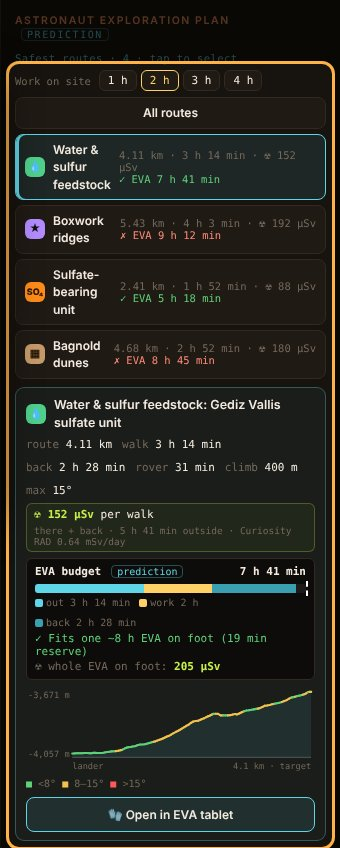
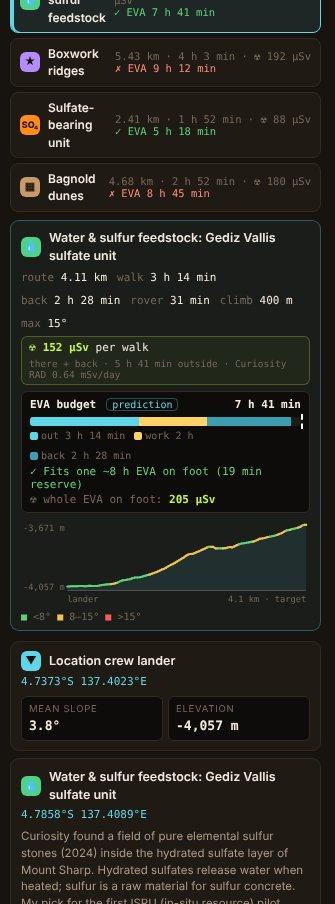
Remove EVA tablet mode
Removes the EVA tablet header button, the Open in EVA tablet button, the
tablet view and its styles, and its tour step (the tour now has 14 steps).
README and docs are updated and the route-card screenshot is retaken. The
radiation dose and EVA budget on every route are unchanged.

diff --git a/index.html b/index.html
@@ -23,25 +23,6 @@ nav button.on{background:var(--mars);border-color:var(--mars);color:#1b0c04}nav 
 aside{background:var(--p);overflow-y:auto;scrollbar-width:thin}
 #left{grid-area:left;border-right:1px solid var(--ln)}#right{grid-area:right;border-left:1px solid var(--ln)}
 #map{grid-area:map;position:relative;background:#000}
-#tablet{display:none;grid-area:right;background:#0b0908;border-left:2px solid #5fd6e8;overflow-y:auto;padding:14px 16px 20px;color:var(--ink)}
-body.tablet #app{grid-template-rows:0 1fr;grid-template-columns:0 1fr minmax(400px,44vw);grid-template-areas:"top top top" "left map right"}body.tablet header,body.tablet #left,body.tablet #right{display:none}body.tablet #tablet{display:block}
-body.tablet #readout{display:none}
-#tablet button{min-height:64px;min-width:64px;border-radius:14px;border:2px solid #3a3530;background:#1c1916;color:var(--ink);font-size:20px;font-weight:600;cursor:pointer;touch-action:manipulation}
-#tablet button:active{background:#2a2622}
-.tb-top{display:flex;align-items:center;gap:10px}.tb-top .tb-lab{flex:1;font:600 13px var(--mono);letter-spacing:.14em;color:#5fd6e8;text-transform:uppercase}
-.tb-nav{display:grid;grid-template-columns:76px 1fr 76px;gap:10px;align-items:center;margin:14px 0 8px}
-.tb-nav .tb-n{text-align:center;font:600 15px var(--mono);color:var(--mute)}
-.tb-title{font-size:28px;font-weight:700;line-height:1.15;margin:4px 0 12px;display:flex;gap:12px;align-items:center}.tb-title .ico{width:40px;height:40px;font-size:20px;flex-shrink:0}
-.tb-st{border-radius:14px;padding:14px 16px;font-size:22px;font-weight:700;line-height:1.25;margin-bottom:12px}.tb-st small{display:block;font-size:15px;font-weight:500;line-height:1.35;margin-top:4px;opacity:.9}
-.tb-st.ok{background:#12301c;border:2px solid #5fd17a;color:#8ff0a6}.tb-st.no{background:#3a1512;border:2px solid #ff6a5a;color:#ffb3a8}
-.tb-g{display:grid;grid-template-columns:1fr 1fr;gap:10px}
-.tb-t{background:#151210;border:2px solid #2c2824;border-radius:14px;padding:10px 14px}.tb-t small{display:block;font:600 12px var(--mono);letter-spacing:.1em;text-transform:uppercase;color:var(--mute)}
-.tb-t b{display:block;font:700 clamp(21px,2.4vw,30px)/1.15 var(--mono);margin-top:4px;white-space:nowrap}.tb-t.rad b{color:#c6f04a}.tb-t.tot b{color:#ffd166}
-.tb-w{display:flex;align-items:center;gap:10px;margin-top:4px}.tb-w b{flex:1;text-align:center;margin:0}
-.tb-x{display:flex;gap:16px;margin:12px 2px;font:600 16px var(--mono);color:var(--dim)}
-.tb-prof .rprof svg{height:150px}.tb-prof .ax{font-size:11px}
-.tb-src{font:12px/1.4 var(--mono);color:var(--mute);margin-top:12px}
-@media(max-width:900px){body.tablet #app{grid-template-rows:0 46vh auto;grid-template-columns:1fr;grid-template-areas:"top" "map" "right"}}
 .sec{padding:13px 14px;border-bottom:1px solid var(--ln)}
 h3{margin:0 0 9px;font-size:10.5px;letter-spacing:.15em;text-transform:uppercase;color:var(--mars2);font-weight:600}
 .seg{display:grid;grid-template-columns:repeat(4,1fr);gap:3px}#base{grid-template-columns:repeat(3,1fr)}
@@ -69,7 +50,7 @@ input[type=range]{width:100%;accent-color:var(--mars)}
 .site:hover{border-color:var(--dim)}.site .t{display:flex;gap:8px;align-items:center;font-weight:600;font-size:12.5px}
 .site p{margin:5px 0 0;color:var(--dim);font-size:11.5px}
 #rsel{display:flex;flex-direction:column;gap:5px;margin:6px 0 8px}#rsel button{display:flex;align-items:center;gap:8px;text-align:left;background:var(--p2);border:1px solid var(--ln);border-radius:8px;padding:6px 9px;color:var(--ink);font:inherit;font-size:12px;cursor:pointer}#rsel button:hover{border-color:var(--dim)}#rsel button.on{border-color:#5fd6e8;background:#5fd6e81a;box-shadow:inset 3px 0 0 #5fd6e8}#rsel .rn{flex:1;font-weight:600}#rsel small{font:10.5px var(--mono);color:var(--mute)}
-.tbopen{margin-top:8px;width:100%;padding:8px;border-radius:8px;border:1px solid #5fd6e8;background:#5fd6e81a;color:var(--ink);font-size:12px;font-weight:600;cursor:pointer}#rsel button[data-r="-1"]{justify-content:center;font-weight:600}
+#rsel button[data-r="-1"]{justify-content:center;font-weight:600}
 .rsel-h{font:10.5px var(--mono);color:#5fd6e8;letter-spacing:.04em;margin-top:4px}#rinfo{border:1px solid #5fd6e855;border-radius:9px;padding:8px 10px;margin-bottom:10px;background:#5fd6e80d}#rinfo .t{display:flex;gap:8px;align-items:center;font-weight:600;font-size:12.5px}.rhint{margin:0;color:var(--mute);font-size:11.5px}.rprof{margin-top:8px}.rprof .ax{font:9px var(--mono);fill:var(--mute)}.rleg{font:10px var(--mono);color:var(--mute);margin-top:2px}
 .lg>div{display:flex;align-items:center;gap:8px;min-height:20px;line-height:1.25;font-size:12px;white-space:nowrap}.lg>div>span:first-child{flex:0 0 18px;width:18px!important;margin:0;vertical-align:0!important;box-sizing:border-box}.lg>div>span.ico{height:18px!important;display:grid!important;place-items:center;line-height:1;padding:0}
 .lg>div.tiv,.tiv{display:flex!important;flex-direction:column;align-items:stretch!important;gap:5px;margin-top:9px;white-space:normal!important;min-height:0}.tiv span,.lg>div.tiv>span:first-child{display:flex!important;width:auto!important;flex:none!important;align-items:center;gap:8px;font-size:12px;line-height:1.3;color:var(--ink)}.tiv .gsub{display:block;margin:-2px 0 3px 20px;font-size:10.5px;color:var(--mute);line-height:1.35}.leaflet-image-layer.pix{image-rendering:pixelated}.tiv i{flex:0 0 12px;width:12px;height:12px;border-radius:3px}
@@ -168,7 +149,7 @@ header .hb{white-space:nowrap}header nav button{white-space:nowrap}
     <button data-v="perseverance">Perseverance<small>Jezero · 2021–today</small></button>
   </nav>
   <div class="sp"></div>
-  <button class="hb" id="tabBtn" style="margin-right:6px" title="Big, glove-friendly view of one route">🧤 EVA tablet</button><button class="hb" id="globeBtn" style="margin-right:6px">🌐 Globe</button><button class="hb" id="helpBtn" title="Guided tour">❓ Tour</button><button class="hb" id="aboutBtn">Data sources</button>
+  <button class="hb" id="globeBtn" style="margin-right:6px">🌐 Globe</button><button class="hb" id="helpBtn" title="Guided tour">❓ Tour</button><button class="hb" id="aboutBtn">Data sources</button>
 </header>
 
 <aside id="left">
@@ -216,7 +197,6 @@ header .hb{white-space:nowrap}header nav button{white-space:nowrap}
 </div>
 
 <aside id="right"><div id="panel"></div></aside>
-<aside id="tablet" aria-label="EVA tablet"></aside>
 </div>
 
 <div id="modal"><div class="c">
@@ -509,9 +489,9 @@ function profile(x){const k=key4[view],pts=x.route.pts;let d=0,prev=null;const a
   let segs='';for(let i=1;i<a.length;i++){const c=a[i][2]<8?'#5fd17a':a[i][2]<15?'#f2c14e':'#ff5a5a';segs+=`<line x1="${X(a[i-1][0]).toFixed(1)}" y1="${Y(a[i-1][1]).toFixed(1)}" x2="${X(a[i][0]).toFixed(1)}" y2="${Y(a[i][1]).toFixed(1)}" stroke="${c}" stroke-width="2.2" stroke-linecap="round"/>`}
   const area=`<path d="M${X(0)},${H-pb} `+a.map(q=>`L${X(q[0]).toFixed(1)},${Y(q[1]).toFixed(1)}`).join(' ')+` L${X(D)},${H-pb} Z" fill="#5fd6e8" opacity=".10"/>`;
   return `<div class="rprof"><svg viewBox="0 0 ${W} ${H}" width="100%"><text x="2" y="10" class="ax">${Math.round(z1).toLocaleString('en')} m</text><text x="2" y="${H-pb}" class="ax">${Math.round(z0).toLocaleString('en')} m</text><line x1="${pl}" y1="${H-pb}" x2="${W-4}" y2="${H-pb}" stroke="#555"/>${area}${segs}<text x="${pl}" y="${H-2}" class="ax">lander</text><text x="${W-4}" y="${H-2}" class="ax" text-anchor="end">${fmtKm(D)} · target</text></svg><div class="rleg"><span style="color:#5fd17a">■</span> &lt;8° <span style="color:#f2c14e">■</span> 8–15° <span style="color:#ff5a5a">■</span> &gt;15°</div></div>`}
-function selRoute(i,fromMap){RSEL=RSEL===i&&fromMap?-1:i;if(isTab()&&RSEL<0)RSEL=i;styleRoutes();if(isTab())renderTablet();
+function selRoute(i,fromMap){RSEL=RSEL===i&&fromMap?-1:i;styleRoutes();
   document.querySelectorAll('#rsel button').forEach(b=>b.classList.toggle('on',+b.dataset.r===RSEL));
-  const box=$('#rinfo');if(box){if(RSEL<0){box.innerHTML='<p class="rhint">Pick a route above, or click a dashed blue line on the map.</p>'}else{const x=RTS[RSEL].x;box.innerHTML=`<div class="t"><span class="ico k-${x.kind}">${KI[x.kind]}</span>${x.title}</div>${routeHtml(x.route)}${profile(x)}<button class="tbopen" onclick="APP.tablet(true)">🧤 Open in EVA tablet</button>`}}
+  const box=$('#rinfo');if(box){if(RSEL<0){box.innerHTML='<p class="rhint">Pick a route above, or click a dashed blue line on the map.</p>'}else{const x=RTS[RSEL].x;box.innerHTML=`<div class="t"><span class="ico k-${x.kind}">${KI[x.kind]}</span>${x.title}</div>${routeHtml(x.route)}${profile(x)}`}}
   if(RSEL>=0){map.flyToBounds(L.latLngBounds(RTS[RSEL].x.route.pts).extend([M_lz.lat,M_lz.lon]),{padding:[60,60],duration:.8});if(fromMap)$('#rsel')?.scrollIntoView({block:'nearest',behavior:'smooth'})}else if(fromMap!==undefined&&!fromMap){map.flyToBounds(L.latLngBounds(RTS.flatMap(r=>r.x.route.pts)),{padding:[40,40],duration:.8})}}
 let M_lz=null;
 const landerHtml=Lz=>`<h4>Location crew lander <span class="pred">prediction</span></h4>${C(Lz.lat,Lz.lon)}<p>The best landing cell in this area: lowest mean slope, smoothest HiRISE surface, low elevation, at a safe distance from targets.</p><div class="kv"><div><small>mean slope (400 m)</small><b>${Lz.slope}°</b></div><div><small>elevation</small><b>${Lz.elev.toLocaleString('en')} m</b></div><div><small>surface roughness</small><b>smoothest ${Math.max(1,Lz.rough_pct)}%</b></div><div><small>zone radius</small><b>300 m</b></div></div>`;
@@ -567,31 +547,7 @@ function go(v,opt={}){view=v;map.stop();map.setMaxZoom(19);$('#nav').querySelect
 $('#nav').onclick=e=>{const b=e.target.closest('button');if(b)go(b.dataset.v)};
 $('#aboutBtn').onclick=()=>$('#modal').classList.add('on');$('#mx').onclick=()=>$('#modal').classList.remove('on');$('#modal').onclick=e=>{if(e.target.id==='modal')$('#modal').classList.remove('on')};
 map.fitBounds(VIEWS.overview.home);go('overview');scl();grat();
-/* EVA tablet: one route, big type and big buttons for gloved hands */
-const isTab=()=>document.body.classList.contains('tablet');
-function renderTablet(){const el=$('#tablet');if(!el)return;if(!RTS.length){el.innerHTML='';return}if(RSEL<0)RSEL=0;
-  const x=RTS[RSEL].x,r=x.route,b=r.back_h??r.walk_h,T=evaT(r),ok=T<=EVA_H,turn=EVA_H-b;
-  el.innerHTML=`<div class="tb-top"><span class="tb-lab">EVA tablet · ${VIEWS[view].title.split('·')[0]} <span class="pred">prediction</span></span><button id="tbX" aria-label="Exit EVA tablet">✕ Exit</button></div>
-  <div class="tb-nav"><button id="tbP" aria-label="Previous route">◀</button><div class="tb-n">Route ${RSEL+1} of ${RTS.length}</div><button id="tbN" aria-label="Next route">▶</button></div>
-  <div class="tb-title"><span class="ico k-${x.kind}">${KI[x.kind]}</span>${x.title.split(':')[0]}</div>
-  <div class="tb-st ${ok?'ok':'no'}">${ok?'✓ Fits one 8 h EVA on foot':'✗ Too long on foot: take the rover'}<small>${ok?`Reserve ${hrs(EVA_H-T)} · leave the site by <b>T+${hrs(turn)}</b> at the latest`:`On foot: ${hrs(T)} (+${hrs(T-EVA_H)}). Rover: ${hrs(r.rover_h)} each way, ${hrs(WORK)} in the suit`}</small></div>
-  <div class="tb-g">
-   <div class="tb-t"><small>Distance</small><b>${r.km} km</b></div>
-   <div class="tb-t tot"><small>EVA total</small><b>${hrs(T)}</b></div>
-   <div class="tb-t"><small>Walk out</small><b>${hrs(r.walk_h)}</b></div>
-   <div class="tb-t"><small>Walk back</small><b>${hrs(b)}</b></div>
-   <div class="tb-t"><small>Work on site</small><div class="tb-w"><button id="tbWm" aria-label="Less work time">−</button><b>${WORK} h</b><button id="tbWp" aria-label="More work time">+</button></div></div>
-   <div class="tb-t rad"><small>☢ Dose (whole EVA)</small><b>${fmtDose(dose(T))}</b></div>
-  </div>
-  <div class="tb-x"><span>▲ climb ${r.climb} m</span><span>max slope ${r.maxslope}°</span></div>
-  <div class="tb-prof">${profile(x)}</div>
-  <div class="tb-src">Route, times and lander: my prediction from NASA DEMs (HiRISE/HRSC/MOLA). Dose: Curiosity RAD, ${RAD.mSvDay} mSv/day (Hassler et al. 2014, Science). 8 h EVA: NASA exploration suit target.</div>`;
-  $('#tbX').onclick=()=>tablet(false);$('#tbP').onclick=()=>selRoute((RSEL-1+RTS.length)%RTS.length);$('#tbN').onclick=()=>selRoute((RSEL+1)%RTS.length);
-  $('#tbWm').onclick=()=>{WORK=Math.max(1,WORK-1);renderTablet()};$('#tbWp').onclick=()=>{WORK=Math.min(4,WORK+1);renderTablet()}}
-function tablet(on){if(on&&isReg(view)){go('curiosity',{instant:true})}
-  document.body.classList.toggle('tablet',on);setTimeout(()=>{map.invalidateSize();if(on){selRoute(RSEL<0?0:RSEL)}else{panel();if(RSEL>=0){const s=RSEL;RSEL=-1;selRoute(s)}}},60)}
-$('#tabBtn').onclick=()=>tablet(true);
-window.APP={tablet,map,go,selRoute,setBase(b){base=b;$('#base').querySelectorAll('button').forEach(x=>x.classList.toggle('on',x.dataset.b===b));applyBase()},enterAt(lat,lon,altKm){const pts={curiosity:[-4.6,137.4],spirit:[-14.57,175.48],perseverance:[18.44,77.45]};
+window.APP={map,go,selRoute,setBase(b){base=b;$('#base').querySelectorAll('button').forEach(x=>x.classList.toggle('on',x.dataset.b===b));applyBase()},enterAt(lat,lon,altKm){const pts={curiosity:[-4.6,137.4],spirit:[-14.57,175.48],perseverance:[18.44,77.45]};
   let best=null,bd=1e18;for(const [k,p] of Object.entries(pts)){const d=dist([lat,lon],p);if(d<bd){bd=d;best=k}}
   if(bd<Math.max(350e3,altKm*1000*0.6)&&altKm<1500){go(best,{instant:true})}else{go('overview');setTimeout(()=>{const z=Math.max(2.5,Math.min(9,Math.log2(19265/Math.max(altKm,40))));map.setView([lat,lon],z,{animate:false})},200)}}};
 $('#globeBtn').onclick=()=>window.GLOBE&&window.GLOBE.show();
@@ -622,8 +578,7 @@ const S=[
  {pre:async()=>{await toMap();await view('curiosity')},t:()=>$('#readout'),h:'Live readout',b:`<p>Under the cursor: <b>latitude/longitude</b>, <b>elevation</b> in meters and <b>slope</b> (green &lt; 8°, yellow 8–15°, red &gt; 15°: too steep on foot). With Geology on, also the geologic unit.</p>`},
  {pre:async()=>{await toMap();await view('curiosity')},t:()=>$('#panel'),h:'The mission story',b:`<ul><li><b>Target resources</b>: verdict for the site and distance of each resource from the crew lander.</li><li><b>NASA mission route</b>: the timeline. Click an entry to fly there.</li><li><b>Astronaut exploration plan</b>: the crew lander, planned sites and the safest routes to them.</li></ul>`},
  {pre:async()=>{await toMap();await view('curiosity');window.APP.selRoute(0,false);const r=$('#rsel');if(r){r.closest('.sec').scrollIntoView({block:'start'});}await new Promise(z=>setTimeout(z,900))},t:()=>{const r=$('#rsel');return r?[r.previousElementSibling,r,$('#rinfo')]:null},h:'Pick a single route',b:`<p>Every mission has several <b style="color:#5fd6e8">safest routes</b> from the crew lander to sulfur, sulfates, regolith and water.</p><ul><li><b>Tap a route</b> in this list, or <b>click a dashed blue line</b> on the map: it is highlighted, the others fade and the map zooms to it.</li><li>The card shows <b>length, walking and rover time, climb and steepest grade</b>, plus an <b>elevation profile</b> coloured by slope: <span style="color:#5fd17a">green</span> &lt;8°, <span style="color:#f2c14e">yellow</span> 8–15°, <span style="color:#ff5a5a">red</span> &gt;15°.</li><li><b style="color:#c6f04a">☢ Radiation</b>: the dose for the walk there and back, at the rate Curiosity's RAD measured in Gale (0.64 mSv/day).</li><li><b style="color:#ffd166">EVA budget</b>: walk out + work on site + walk back, against one ~8 h EVA. <span style="color:#5fd17a">✓</span> fits on foot, <span style="color:#ff8a7a">✗</span> take the rover. Choose the work time with <b>Work on site</b> (1–4 h).</li><li><b>All routes</b> shows them all again.</li></ul>`},
- {pre:async()=>{await toMap();await view('curiosity')},t:()=>$('#tabBtn'),h:'EVA tablet',b:`<p><b>🧤 EVA tablet</b> shows one route in a big, glove-friendly layout for a crew tablet: large buttons, a clear <b>fits / does not fit</b> status with the latest time to leave the site, the times, the dose and the elevation profile.</p><p>Use <b>◀ ▶</b> to switch routes, <b>− / +</b> to change the work time and <b>✕ Exit</b> to go back to the map.</p>`},
- {pre:toMap,t:()=>['#tabBtn','#globeBtn','#helpBtn','#aboutBtn'].map(q=>$(q)),h:'Globe, tour and sources',b:`<ul><li><b>🧤 EVA tablet</b>: one route, big buttons.</li><li><b>🌐 Globe</b>: back to the 3D planet.</li><li><b>❓ Tour</b>: replay this guide.</li><li><b>Data sources</b>: every NASA/USGS dataset and the method behind the predictions.</li></ul><p>That's it. Enjoy exploring Mars!</p>`}
+ {pre:toMap,t:()=>['#globeBtn','#helpBtn','#aboutBtn'].map(q=>$(q)),h:'Globe, tour and sources',b:`<ul><li><b>🌐 Globe</b>: back to the 3D planet.</li><li><b>❓ Tour</b>: replay this guide.</li><li><b>Data sources</b>: every NASA/USGS dataset and the method behind the predictions.</li></ul><p>That's it. Enjoy exploring Mars!</p>`}
 ];
 let i=0,on=false;
 const hi=$('#tourHi'),card=$('#tourCard');

diff --git a/README.md b/README.md
@@ -15,7 +15,7 @@ An interactive Mars globe and map built from real NASA data. It follows three ro
 
 | | |
 |---|---|
-| **Guided tour** | A 15-step walkthrough starts on the first visit: mission paths, layers, legend symbols, overlays, the readout, the mission panel, picking a single route (radiation and EVA budget) and the EVA tablet. It can be replayed with **❓ Tour**. |
+| **Guided tour** | A 14-step walkthrough starts on the first visit: mission paths, layers, legend symbols, overlays, the readout, the mission panel, and picking a single route (radiation and EVA budget). It can be replayed with **❓ Tour**. |
 | **3D globe start** | The app opens on a rotating Mars globe (three.js). Scroll zooms toward the cursor, dragging rotates it, and clicking a rover lands on its site. Below ~300 km altitude it switches to the 2D map. |
 | **5 data layers** | *Basic* (Viking MDIM 2.1, HiRISE), *Elevation* (MOLA, HRSC, HiRISE DEMs, colored by true height with contour lines and hover readout), *Thermal* (Mars Odyssey THEMIS day/night IR plus measured rover temperatures), *Geology* (USGS SIM 3292 global geologic map, 44 units, plus orbital water-mineral detections) and *Ground* (walking conditions interpreted from MGS TES thermal inertia). |
 | **Real rover paths** | Official traverses: NASA/JPL MMGIS for Curiosity (to sol 5073) and Perseverance (to sol 2022) plus Ingenuity's 72 flights, and the PDS MER Analyst's Notebook for Spirit (sols 1–2209). The paths were checked against official odometry and against orbital imagery ([verification](docs/METHOD.md#verification-of-rover-paths)). |
@@ -23,13 +23,10 @@ An interactive Mars globe and map built from real NASA data. It follows three ro
 | **Astronaut exploration plan (predictions)** | For each site: a proposed crew lander zone (slope + roughness + elevation), resource sites, hazard zones outlined from the DEMs, slopes steeper than 25° (Basic layer), and least-time walking routes that never cross terrain steeper than 15°. A route picker highlights any single route with its elevation profile. A ★ science stop marks the boxwork ridges on Mount Sharp (Curiosity, 2025). |
 | **Radiation on every route** | Dose for each walk and for the whole EVA, from the 0.64 mSv/day that Curiosity's RAD measured on the surface in Gale (Hassler et al. 2014, *Science*). |
 | **EVA budget** | Walk out + work on site (1–4 h) + walk back on the same path, compared with one ~8 h EVA (NASA exploration-suit target). Each route is marked ✓ fits on foot or ✗ take the pressurised rover. |
-| **EVA tablet mode** | 🧤 One selected route in a big, glove-friendly layout (64 px buttons): the fits / does not fit status with the latest turn-back time, the times, the dose and the profile. |
 | **Rover's-eye view** | Real Curiosity (Mastcam / Navcam) and Perseverance raw images taken at the event locations. Grey calibration frames were replaced with Navcam terrain images from the same sols. |
 | **Lat / lon grid & readout** | Planetocentric graticule (°E, 0–360), with coordinates, elevation and slope under the cursor. |
 
 ![Curiosity — pure sulfur at Gediz Vallis](docs/img/03-curiosity-sulfur.jpg)
-
-![EVA tablet: one route, big buttons, radiation and EVA budget](docs/img/09-eva-tablet.jpg)
 
 ## Mission focus: sulfur concrete
 
@@ -103,4 +100,4 @@ An SI (Super Intelligence) coding assistant was used in this project.
 
 ### Wersja polska (skrót)
 
-Interaktywny globus i mapa Marsa z prawdziwych danych NASA, przygotowane na NASA Space Apps 2026. Pokazują trasy łazików Curiosity, Spirit i Perseverance oraz warstwy: zdjęcia, wysokości, termiki i geologii. Celem misji są miejsca z **czystą siarką i siarczanami** oraz źródła **regolitu** jako kruszywa do **betonu siarkowego**. Najlepsze jest Gale, bo ma jedyną potwierdzoną czystą siarkę na Marsie. Każda trasa pokazuje dawkę promieniowania (Curiosity RAD, 0,64 mSv/dobę) oraz budżet EVA: czas tam, pracę na miejscu i powrót, porównane z jednym ok. 8-godzinnym wyjściem. Tryb **🧤 EVA tablet** pokazuje jedną trasę w dużym widoku, wygodnym do obsługi w rękawicach. Uruchomienie: `python3 -m http.server`, potem otwórz `http://localhost:8000`.
+Interaktywny globus i mapa Marsa z prawdziwych danych NASA, przygotowane na NASA Space Apps 2026. Pokazują trasy łazików Curiosity, Spirit i Perseverance oraz warstwy: zdjęcia, wysokości, termiki i geologii. Celem misji są miejsca z **czystą siarką i siarczanami** oraz źródła **regolitu** jako kruszywa do **betonu siarkowego**. Najlepsze jest Gale, bo ma jedyną potwierdzoną czystą siarkę na Marsie. Każda trasa pokazuje dawkę promieniowania (Curiosity RAD, 0,64 mSv/dobę) oraz budżet EVA: czas tam, pracę na miejscu i powrót, porównane z jednym ok. 8-godzinnym wyjściem. Uruchomienie: `python3 -m http.server`, potem otwórz `http://localhost:8000`.

diff --git a/docs/USER_GUIDE.md b/docs/USER_GUIDE.md
@@ -2,7 +2,7 @@
 
 ## 0. Guided tour
 
-On the first visit a 15-step tour starts by itself. It covers the globe controls, mission paths, layers and legends, overlays, the map-legend symbols, the readout, the mission panel, picking a single route (radiation and EVA budget), the EVA tablet and the header buttons. Use **Next → / ← Back** (or the arrow keys) to move through it, and **Skip tour** or **Esc** to close it. Reopen it anytime with **❓ Tour**, on the globe or in the map header. Add `?notour` to the URL to stop it from starting automatically.
+On the first visit a 14-step tour starts by itself. It covers the globe controls, mission paths, layers and legends, overlays, the map-legend symbols, the readout, the mission panel, picking a single route (radiation and EVA budget) and the header buttons. Use **Next → / ← Back** (or the arrow keys) to move through it, and **Skip tour** or **Esc** to close it. Reopen it anytime with **❓ Tour**, on the globe or in the map header. Add `?notour` to the URL to stop it from starting automatically.
 
 ## 1. Globe
 
@@ -61,11 +61,8 @@ For each mission:
    - **☢ Radiation**: the dose for the walk there and back. It uses the 0.64 mSv/day galactic-cosmic-ray rate that Curiosity's RAD measured in Gale (Hassler et al. 2014).
    - **EVA budget** *(prediction)*: a bar with the walk out, the work on site and the walk back, with the ~8 h EVA limit marked. ✓ means the walk fits one EVA on foot, with the reserve shown. ✗ means it does not, and the card gives the pressurised-rover option. **Work on site** above the route list sets the work time (1–4 h, default 2 h). The route list shows ✓/✗ and the EVA total for every route.
    - In Gale, the **★ boxwork science stop** (Curiosity, 2025) has its own route.
-6. **🧤 EVA tablet** (header button, or **Open in EVA tablet** under a selected route): a large, glove-friendly view of one route for a crew tablet. It shows a big ✓/✗ status with the reserve and the latest time to leave the site, large tiles (distance, EVA total, walk out and back, work time with − / +, dose), the elevation profile, and 64 px **◀ ▶** buttons to switch routes. **✕ Exit** returns to the map.
 
 ![Route card with radiation and EVA budget](img/10-route-radiation-eva.jpg)
-
-![EVA tablet mode](img/09-eva-tablet.jpg)
 
 ![Route picker, Curiosity](img/07-route-picker.jpg)
 

diff --git a/docs/ARCHITECTURE.md b/docs/ARCHITECTURE.md
@@ -53,8 +53,6 @@ Both are vendored, so the page needs no CDN and makes no external requests.
 
 Radiation and EVA values are not stored. They are computed in the browser from the route times: `RAD.mSvDay = 0.64` (Curiosity RAD), `EVA_H = 8`, and `WORK` (1–4 h, picked by the user). The functions are `dose()`, `radHtml()`, `evaHtml()` and `evaT()` next to `routeHtml()`.
 
-**EVA tablet**: `tablet(true|false)` adds or removes `body.tablet`. That hides the header and both side panels and shows `<aside id="tablet">` in the right grid column. `renderTablet()` draws the selected route (`RTS[RSEL]`), and `selRoute()` redraws the tablet while it is open. It is exposed as `APP.tablet`.
-
 The PNG grids are read with `createImageBitmap(..., {colorSpaceConversion:'none', premultiplyAlpha:'none'})`, so the values are exact.
 
 ## Globe ↔ map hand-off
